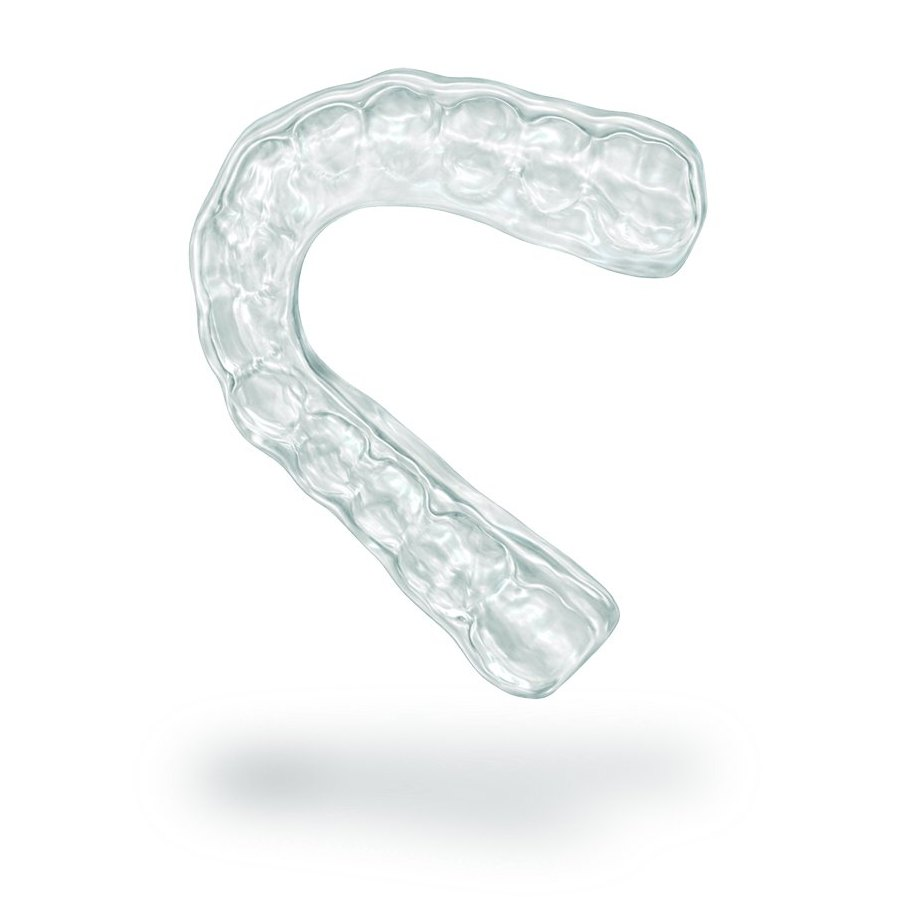
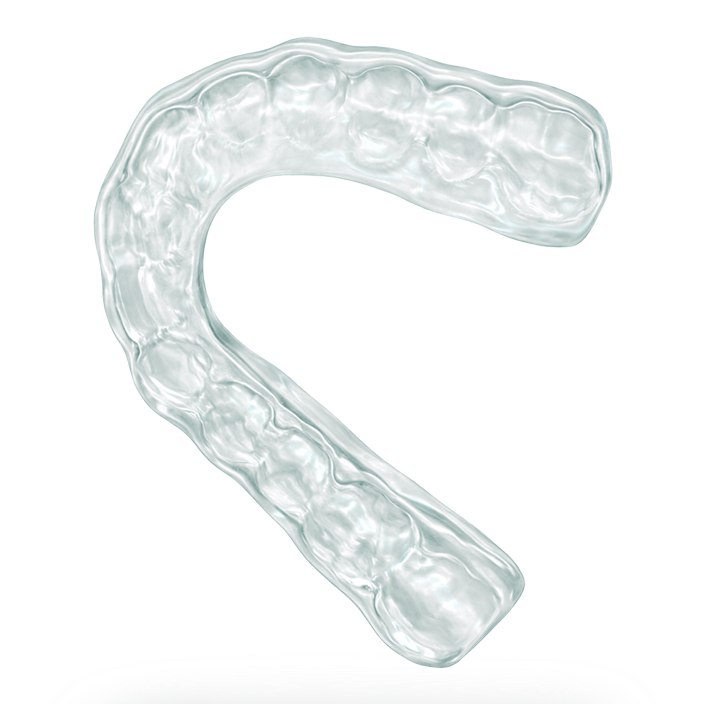
Ferulas: las seis tarjetas iguales en movil
Tres cosas descuadraban la columna: la mixta era una foto gris a sangre
entre cinco tarjetas blancas con marco, el titulo de la blanda ocupaba
dos lineas y las piezas salian a tamanos distintos. La mixta pasa a
fondo blanco con el mismo marco, el titulo queda en una linea y las
seis fotos se recortan con el mismo criterio para que la pieza ocupe lo
mismo en todas.

Claude-Session: https://claude.ai/code/session_01G9ySE2q82eBR5v7f2bLYwG

Changed region(s): [[0.125, 0.0312, 0.875, 0.9688]]

diff --git a/corporativa/trabajos/ferulas.html b/corporativa/trabajos/ferulas.html
@@ -218,7 +218,7 @@ h2.big2 em { font-style:normal; color:var(--goldd); }
   <span class="eyebrow rv">Tipos de f&eacute;rula</span>
   <h2 class="big2 rv">Una f&eacute;rula para <em>cada necesidad.</em></h2>
   <p class="sub rv">Todas dise&ntilde;adas sobre el modelo digital del paciente y en la posici&oacute;n que t&uacute; indiques.</p>
-  <div class="tp2grid ph"><div class="tpph rv"><span class="ph3"><span class="nb">01</span><img src="../img/ferula-descarga.jpg" alt="F&eacute;rula de descarga r&iacute;gida superior e inferior"><span class="cap3">F&eacute;rula de descarga</span></span><div class="bd"><p>R&iacute;gida de cobertura total, superior o inferior, para bruxismo y ATM.</p><span class="tag">PMMA</span></div></div><div class="tpph rv"><span class="ph3"><span class="nb">02</span><img src="../img/ferula-fresada.jpg" alt="F&eacute;rula de descarga fresada en PMMA"><span class="cap3">F&eacute;rula de descarga fresada</span></span><div class="bd"><p>Estabilizadora tipo Michigan: fresada en PMMA, con gu&iacute;a canina y libertad en c&eacute;ntrica.</p><span class="tag">PMMA</span><span class="tag">FRESADA</span></div></div><div class="tpph rv"><span class="ph3 llena"><span class="nb">03</span><img src="../img/ferula-mixta.jpg" alt="F&eacute;rula mixta sobre el modelo"><span class="cap3">F&eacute;rula mixta</span></span><div class="bd"><p>Interior blando y exterior r&iacute;gido, para cuando la r&iacute;gida no se tolera.</p><span class="tag">DUAL</span></div></div><div class="tpph rv"><span class="ph3"><span class="nb">04</span><img src="../img/ferula-deportiva.jpg" alt="F&eacute;rula blanda y de blanqueamiento"><span class="cap3">F&eacute;rula blanda y de blanqueamiento</span></span><div class="bd"><p>Blanda de EVA, fina y flexible, con o sin reservorio para el gel.</p><span class="tag">EVA</span></div></div><div class="tpph rv"><span class="ph3"><span class="nb">05</span><img src="../img/ferula-essix.jpg" alt="Retenedor Essix termoformado"><span class="cap3">F&eacute;rula de contenci&oacute;n (Essix)</span></span><div class="bd"><p>Termoformada en PETG, fina y transparente, para la contenci&oacute;n tras ortodoncia.</p><span class="tag">PETG</span></div></div><div class="tpph rv"><span class="ph3"><span class="nb">06</span><img src="../img/ferula-blanda.jpg" alt="F&eacute;rula de contenci&oacute;n deportiva, azul"><span class="cap3">Protecci&oacute;n deportiva</span></span><div class="bd"><p>F&eacute;rula de boxeo y protectores bucales, con el grosor que indiques.</p><span class="tag">EVA</span></div></div></div>
+  <div class="tp2grid ph"><div class="tpph rv"><span class="ph3"><span class="nb">01</span><img src="../img/ferula-descarga.jpg" alt="F&eacute;rula de descarga r&iacute;gida superior e inferior"><span class="cap3">F&eacute;rula de descarga</span></span><div class="bd"><p>R&iacute;gida de cobertura total, superior o inferior, para bruxismo y ATM.</p><span class="tag">PMMA</span></div></div><div class="tpph rv"><span class="ph3"><span class="nb">02</span><img src="../img/ferula-fresada.jpg" alt="F&eacute;rula de descarga fresada en PMMA"><span class="cap3">F&eacute;rula de descarga fresada</span></span><div class="bd"><p>Estabilizadora tipo Michigan: fresada en PMMA, con gu&iacute;a canina y libertad en c&eacute;ntrica.</p><span class="tag">PMMA</span><span class="tag">FRESADA</span></div></div><div class="tpph rv"><span class="ph3"><span class="nb">03</span><img src="../img/ferula-mixta-blanca.jpg" alt="F&eacute;rula mixta sobre el modelo"><span class="cap3">F&eacute;rula mixta</span></span><div class="bd"><p>Interior blando y exterior r&iacute;gido, para cuando la r&iacute;gida no se tolera.</p><span class="tag">DUAL</span></div></div><div class="tpph rv"><span class="ph3"><span class="nb">04</span><img src="../img/ferula-deportiva.jpg" alt="F&eacute;rula blanda y de blanqueamiento"><span class="cap3">Blanda y de blanqueamiento</span></span><div class="bd"><p>Blanda de EVA, fina y flexible, con o sin reservorio para el gel.</p><span class="tag">EVA</span></div></div><div class="tpph rv"><span class="ph3"><span class="nb">05</span><img src="../img/ferula-essix.jpg" alt="Retenedor Essix termoformado"><span class="cap3">F&eacute;rula de contenci&oacute;n (Essix)</span></span><div class="bd"><p>Termoformada en PETG, fina y transparente, para la contenci&oacute;n tras ortodoncia.</p><span class="tag">PETG</span></div></div><div class="tpph rv"><span class="ph3"><span class="nb">06</span><img src="../img/ferula-blanda.jpg" alt="F&eacute;rula de contenci&oacute;n deportiva, azul"><span class="cap3">Protecci&oacute;n deportiva</span></span><div class="bd"><p>F&eacute;rula de boxeo y protectores bucales, con el grosor que indiques.</p><span class="tag">EVA</span></div></div></div>
 </div></section>
 
 
